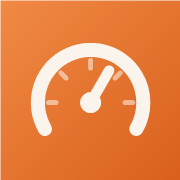
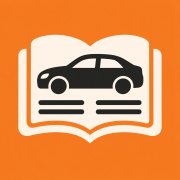
Ny appikon och logga från ChatGPT
- Appikonen (bok med bil) i 512, 192 och 180 px för hemskärmen
- Loggan med namnet på inloggningssidan

diff --git a/app.js b/app.js
@@ -11,7 +11,7 @@ import {
 } from "https://www.gstatic.com/firebasejs/11.0.2/firebase-firestore.js";
 import { firebaseConfig } from "./firebase-config.js";
 
-const VERSION = "1.8";
+const VERSION = "1.9";
 
 const fb = initializeApp(firebaseConfig);
 const auth = getAuth(fb);
@@ -517,8 +517,7 @@ function render() {
 function renderLogin(error = "") {
   setScreen("login", `
     <section class="login">
-      <div class="dl-ic" style="width:56px;height:56px;border-radius:18px;background:var(--accent);color:var(--accent-ink)">${icon("gauge", 30)}</div>
-      <h1>Bildagboken</h1>
+      <h1><img class="login-logo" src="icons/logo.png" alt="Bildagboken" width="900" height="244"></h1>
       <p>Service, tankning, däck, datum och kostnader för er bil. Ni ser samma sak i båda telefonerna.</p>
       <button class="btn google block" type="button" data-act="login">${icon("google", 20)} Logga in med Google</button>
       ${error ? `<p class="err">${esc(error)}</p>` : ""}

diff --git a/style.css b/style.css
@@ -336,6 +336,7 @@ details.more > .form { margin-top: 12px; }
 /* login */
 .login { min-height: 80vh; display: flex; flex-direction: column; justify-content: center; gap: 18px; }
 .login h1 { font-family: var(--f-display); font-size: 40px; line-height: 1.05; margin: 0; letter-spacing: -.02em; }
+.login-logo { display: block; width: min(100%, 340px); height: auto; margin-left: -4px; }
 .login p { margin: 0; color: var(--ink-2); font-size: 16px; max-width: 34ch; }
 .btn.google { background: var(--glass-strong); color: var(--ink); border: 1px solid var(--line); }
 

diff --git a/sw.js b/sw.js
@@ -1,5 +1,5 @@
 // Service worker: gör att appen startar även utan nät och kan visa notiser.
-const CACHE = "bildagboken-v9";
+const CACHE = "bildagboken-v10";
 const SHELL = [
   "./",
   "./index.html",
@@ -7,7 +7,8 @@ const SHELL = [
   "./app.js",
   "./firebase-config.js",
   "./manifest.webmanifest",
-  "./icons/icon-192.png"
+  "./icons/icon-192.png",
+  "./icons/logo.png"
 ];
 
 self.addEventListener("install", (event) => {
